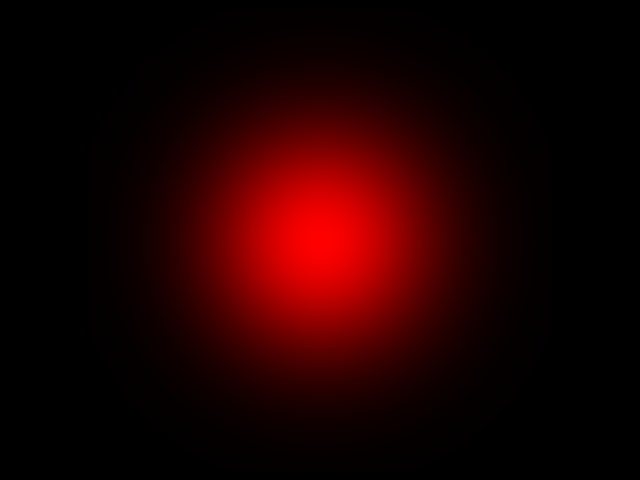
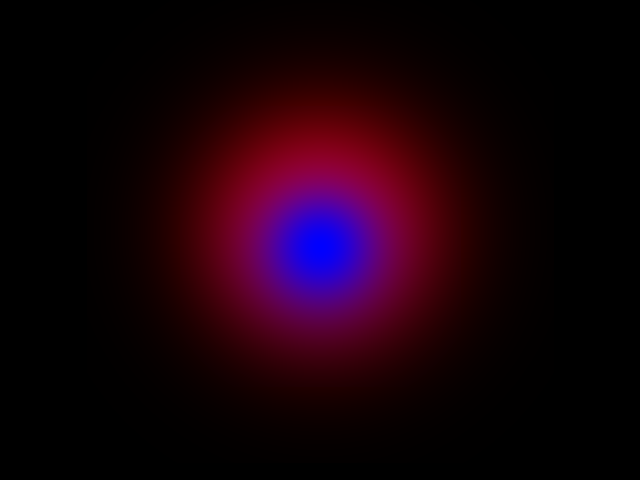
add feedback

Changed region(s): [[0.3438, 0.2812, 0.6562, 0.75]]

diff --git a/matlab/train_multiview.m b/matlab/train_multiview.m
@@ -1,9 +1,10 @@
 %% OPTIMIZACIÓN MULTIVISTA: 2 GAUSSIANAS
 clear; clc; close all;
-setup_paths;
+% setup_paths; % Asegúrate de que esta función esté disponible o comentada si no es necesaria
 
 % 1. Configuración de Escena y Cámaras
 W = 640; H = 480;
+% Simulamos carga de datos (ajusta a tu ruta real)
 load('../data/cameras.mat', 'cams'); 
 num_cams = length(cams);
 targets = cell(num_cams, 1);
@@ -11,15 +12,16 @@ for i = 1:num_cams
     targets{i} = im2double(imread(sprintf('../data/targets/cam%02d.png', i)));
 end
 
-% 2. Inicialización de 2 Gaussianas (Filas independientes)
+% 2. Inicialización de 2 Gaussianas
 % G = [x, y, z,  scale,  r, g, b,  opacity]
 G = [ 0.2,  0.1, 1.1,  0.1,  1, 0, 0,  1.0;   % Gaussiana 1 (Roja)
      -0.2, -0.1, 1.1,  0.1,  0, 0, 1,  1.0];  % Gaussiana 2 (Azul)
 
-num_g = size(G, 1); % Cantidad de gaussianas (2)
+num_g = size(G, 1); 
 iterations = 1000;
+print_every = 50; % Frecuencia de los prints en consola
 
-% --- NUEVO: Historial para 2 trayectorias ---
+% --- Historial para trayectorias ---
 traj1 = zeros(iterations, 3);
 traj2 = zeros(iterations, 3);
 
@@ -27,12 +29,16 @@ traj2 = zeros(iterations, 3);
 lr_pos_init = 0.05;      
 lr_scale_init = 0.005;   
 momentum = 0.9;
-v_G = zeros(size(G)); % Velocidad ahora es 2x8
+v_G = zeros(size(G)); 
 eps = 1e-3;             
 
 hFig = figure('Color', 'w', 'Name', '3DGS: 2 Gaussianas', 'Position', [100, 100, 1200, 400]);
 loss_history = zeros(iterations, 1);
 cam_stack = [];
+
+fprintf('Iniciando optimización...\n');
+fprintf('%-10s | %-10s | %-25s | %-10s\n', 'Iter', 'Loss', 'Posición (X,Y,Z)', 'Escala');
+fprintf('--------------------------------------------------------------------------\n');
 
 for it = 1:iterations
     % Guardar trayectorias
@@ -52,14 +58,13 @@ for it = 1:iterations
     cam_stack = cam_stack(2:end);
     target_img = targets{idx};
 
-    % --- C. Render y Loss (El renderizador debe recibir la matriz G completa) ---
+    % --- C. Render y Loss ---
     img = render_mex(G, cams(idx).K, cams(idx).R, cams(idx).t, W, H);
     loss = compute_loss(img, target_img);
     loss_history(it) = loss;
 
     % --- D. Gradientes para AMBAS Gaussianas ---
     grad_G = zeros(size(G)); 
-    % Solo optimizamos los primeros 4 parámetros (XYZ y Scale) de cada una
     for g_idx = 1:num_g
         for p_idx = 1:4
             Gp = G;
@@ -71,7 +76,7 @@ for it = 1:iterations
     end
 
     % --- E. Actualización con Momentum ---
-    lrs = [lr_pos, lr_pos, lr_pos, lr_scale, 0, 0, 0, 0]; % No tocamos RGB ni Alpha
+    lrs = [lr_pos, lr_pos, lr_pos, lr_scale, 0, 0, 0, 0]; 
     v_G = momentum * v_G - lrs .* grad_G;
     G = G + v_G;
 
@@ -79,9 +84,20 @@ for it = 1:iterations
     G(:, 4) = max(G(:, 4), 0.01); % Escala mínima
     G(:, 3) = max(G(:, 3), 0.1);  % Z mínimo
 
+    % --- NUEVO: Print de estado ---
+    if mod(it, print_every) == 0 || it == 1
+        fprintf('Iter: %04d | Loss: %.6f\n', it, loss);
+        for g_idx = 1:num_g
+            pos_str = sprintf('[%.3f, %.3f, %.3f]', G(g_idx, 1), G(g_idx, 2), G(g_idx, 3));
+            fprintf('  G%d -> Pos: %-25s | Scale: %.4f\n', g_idx, pos_str, G(g_idx, 4));
+        end
+        fprintf('--------------------------------------------------------------------------\n');
+    end
+
     % --- G. Visualización ---
     if mod(it, 20) == 0
-        subplot(1,3,1); imshow(img); title('Render (2 Gaussianas)');
+        set(0, 'CurrentFigure', hFig);
+        subplot(1,3,1); imshow(img); title(sprintf('Render It: %d', it));
         subplot(1,3,2); imshow(target_img); title('Ground Truth');
         subplot(1,3,3); plot(loss_history(1:it), 'r'); title('Convergencia');
         drawnow limitrate;
@@ -90,8 +106,8 @@ end
 
 % --- H. PLOT 3D ---
 figure('Color', 'w'); hold on; grid on; axis equal;
-plot3(traj1(:,1), traj1(:,2), traj1(:,3), 'r-', 'LineWidth', 2); % Trayectoria G1
-plot3(traj2(:,1), traj2(:,2), traj2(:,3), 'b-', 'LineWidth', 2); % Trayectoria G2
+plot3(traj1(:,1), traj1(:,2), traj1(:,3), 'r-', 'LineWidth', 2); 
+plot3(traj2(:,1), traj2(:,2), traj2(:,3), 'b-', 'LineWidth', 2); 
 legend('Gaussiana 1 (Roja)', 'Gaussiana 2 (Azul)');
 title('Recorrido de las 2 Gaussianas');
 view(3); rotate3d on;
